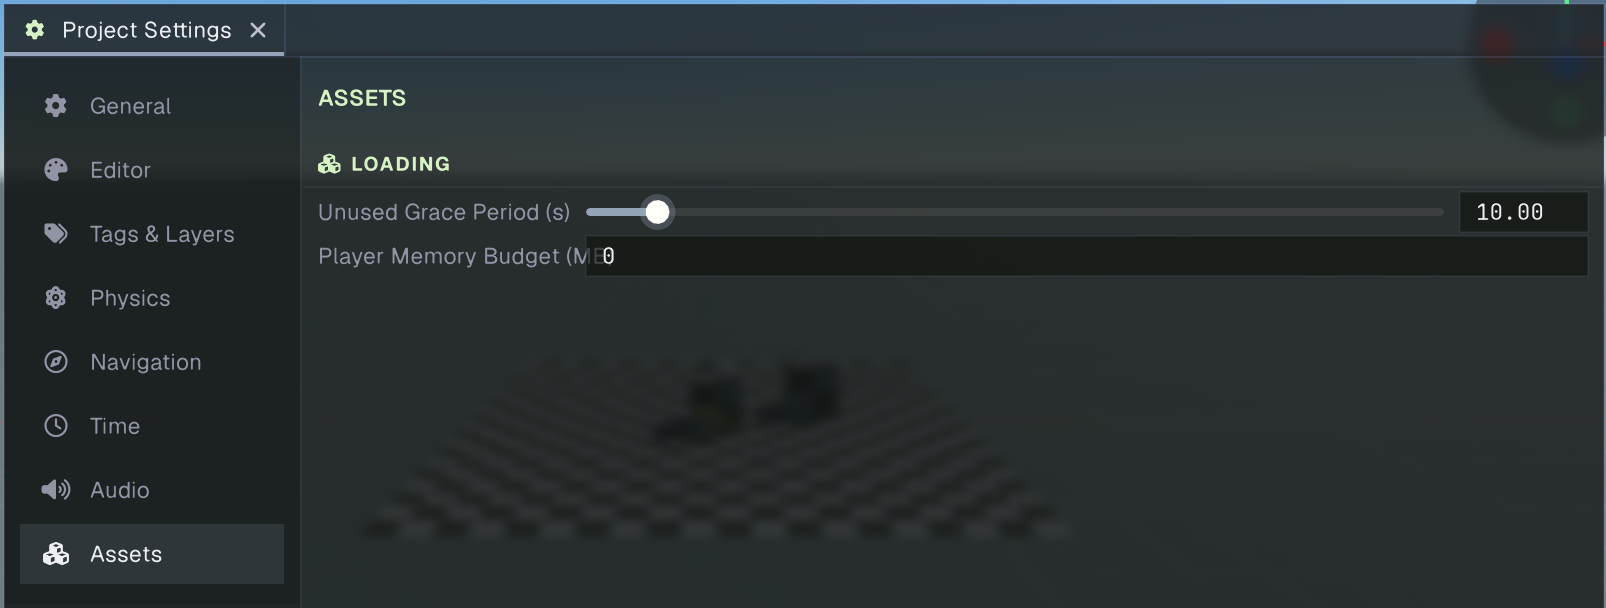
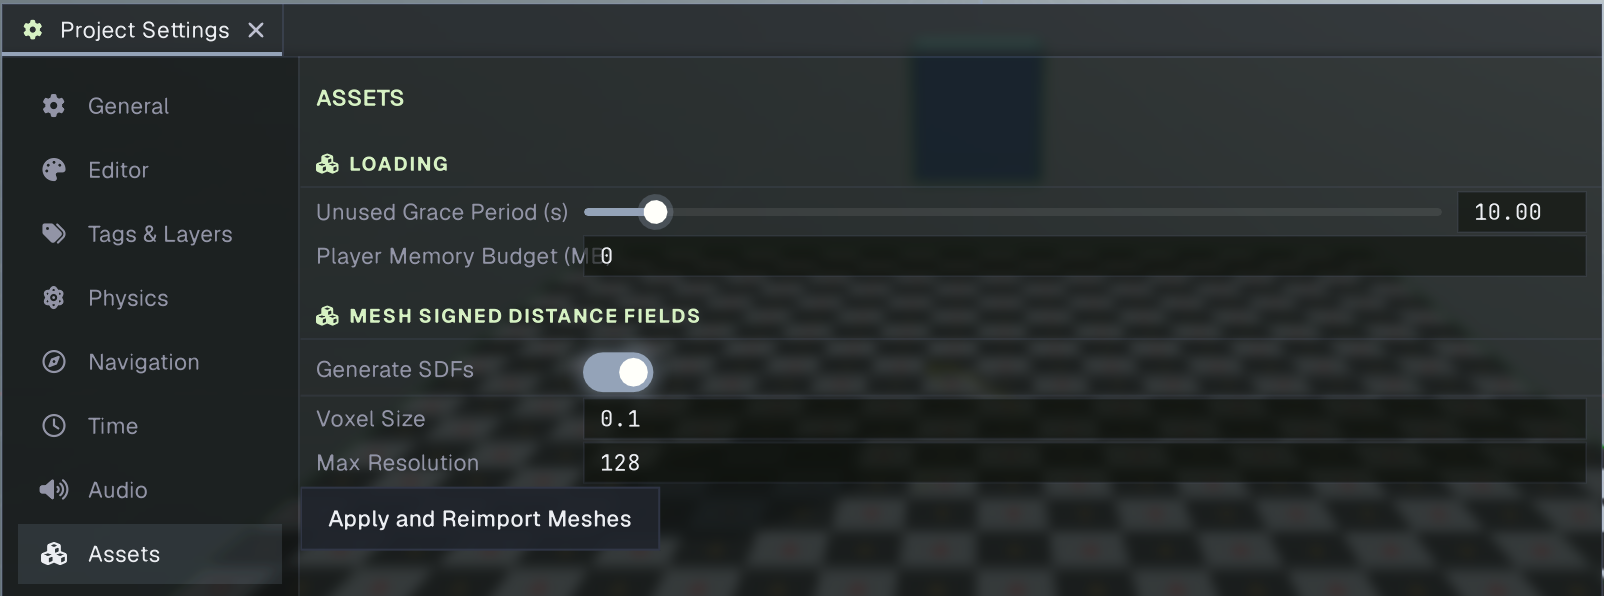
Updated the docs and screenshot for the newly added mesh SDF option

diff --git a/manual/editor/projectsettings.md b/manual/editor/projectsettings.md
@@ -134,10 +134,15 @@ The page estimates output latency from the selected buffer size and sample rate.
 
 ![Project Settings panel showing asset loading and memory settings](../../media/screenshots/projectsettings_assets_default.png)
 
-Assets controls how long unused assets stay loaded and the player’s asset memory budget:
+Assets controls how long unused assets stay loaded, the player’s asset memory budget, and whether mesh signed distance fields (SDFs) are generated during import:
 
 - **Unused Grace Period (s)** sets how many seconds an asset remains loaded after nothing references it. This can avoid reloading an asset that is used again shortly afterward.
 - **Player Memory Budget (MB)** sets the loaded asset memory budget for a built game. When the budget is exceeded, unused assets can be freed earlier. Set it to `0` for no budget. The editor does not use this limit.
+- **Generate SDFs** generates a signed distance field for each imported mesh. Mesh SDFs provide a voxelized representation of distance to the mesh surface for features that need it. This is off by default; enabling it adds processing and memory use during mesh import and for the generated data.
+- **Voxel Size** sets the requested edge length of each SDF voxel in mesh units. Smaller values produce a finer field and more voxels; larger values produce a coarser field. The size may be increased to respect the resolution limit.
+- **Max Resolution** limits the number of voxels along the mesh's longest axis, including padding. It ranges from 8 to 256 and defaults to 128. When this limit requires it, the actual voxel size is increased beyond the requested **Voxel Size**.
+
+Changing the SDF toggle or either generation value shows **Apply and Reimport Meshes**. Select it to save the settings and reimport meshes so the change takes effect; changing these options can therefore trigger substantial import work.
 
 ## XR
 
